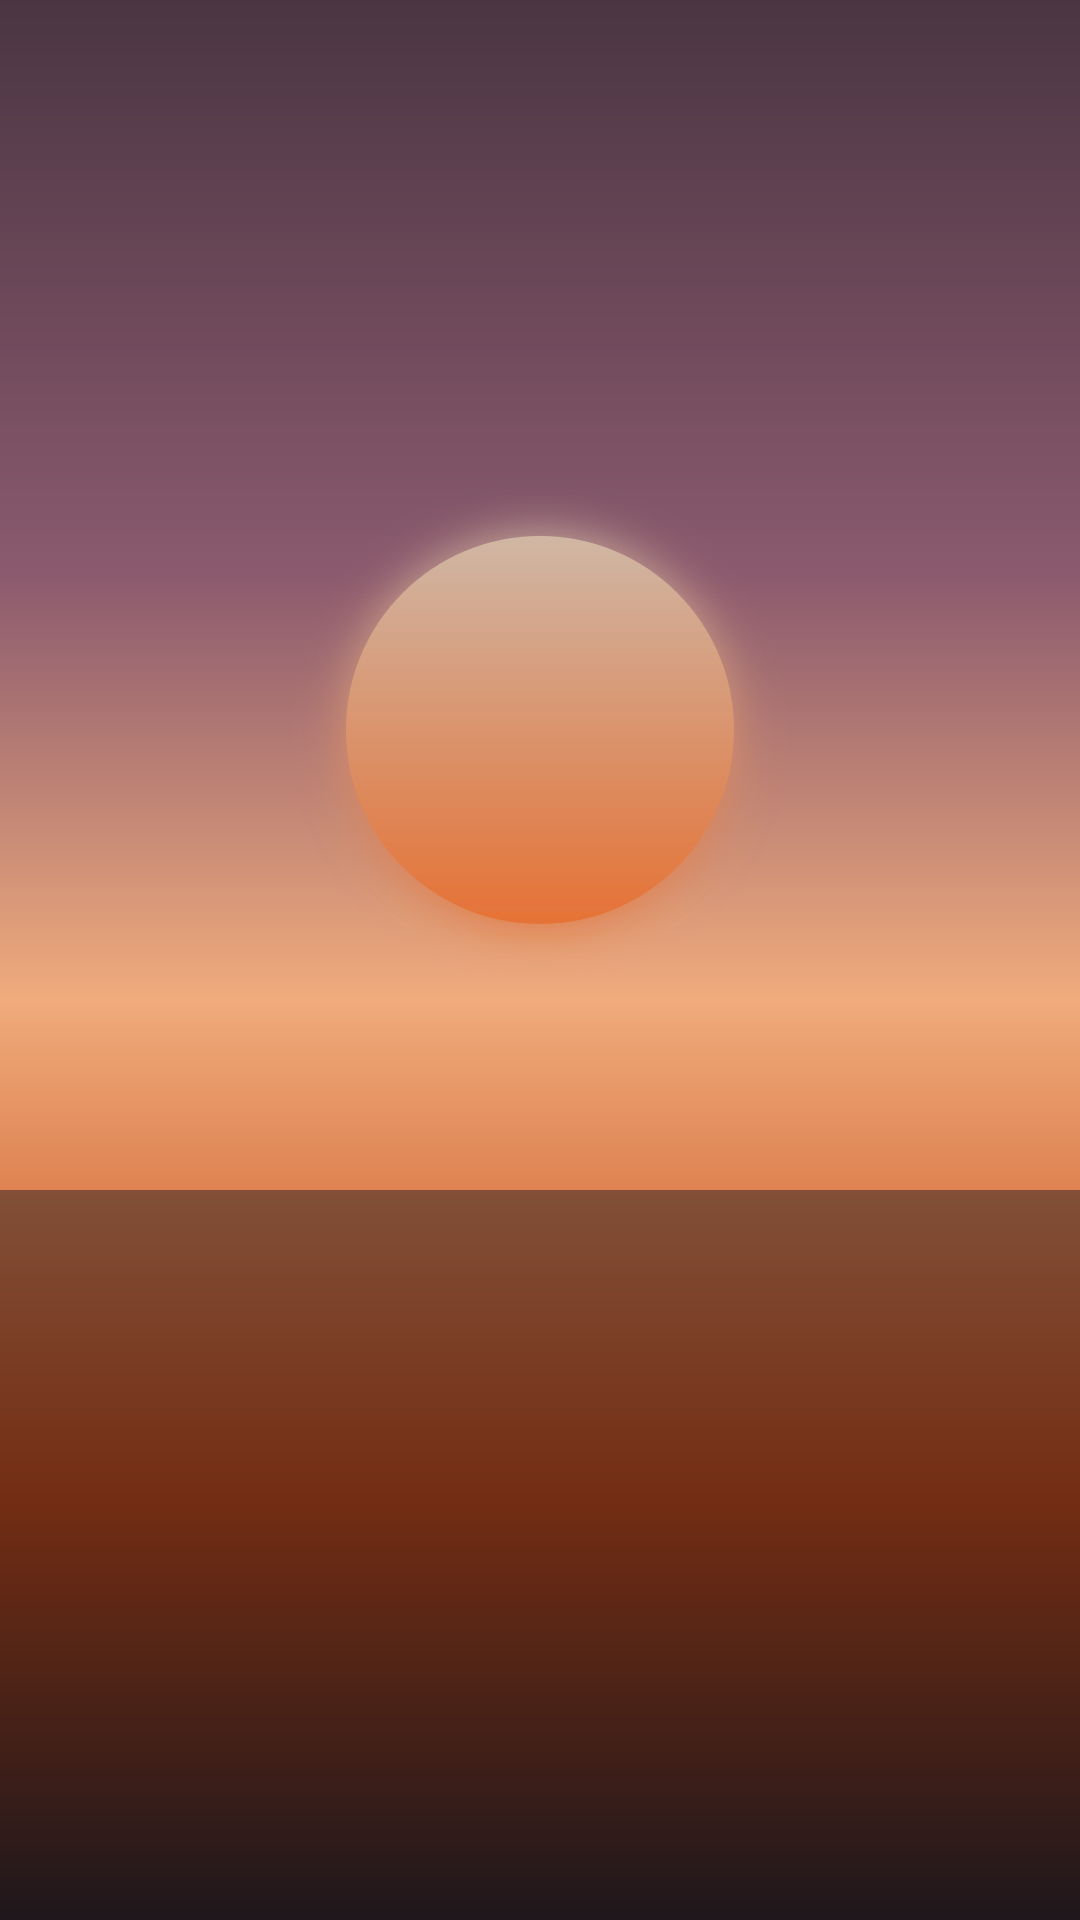
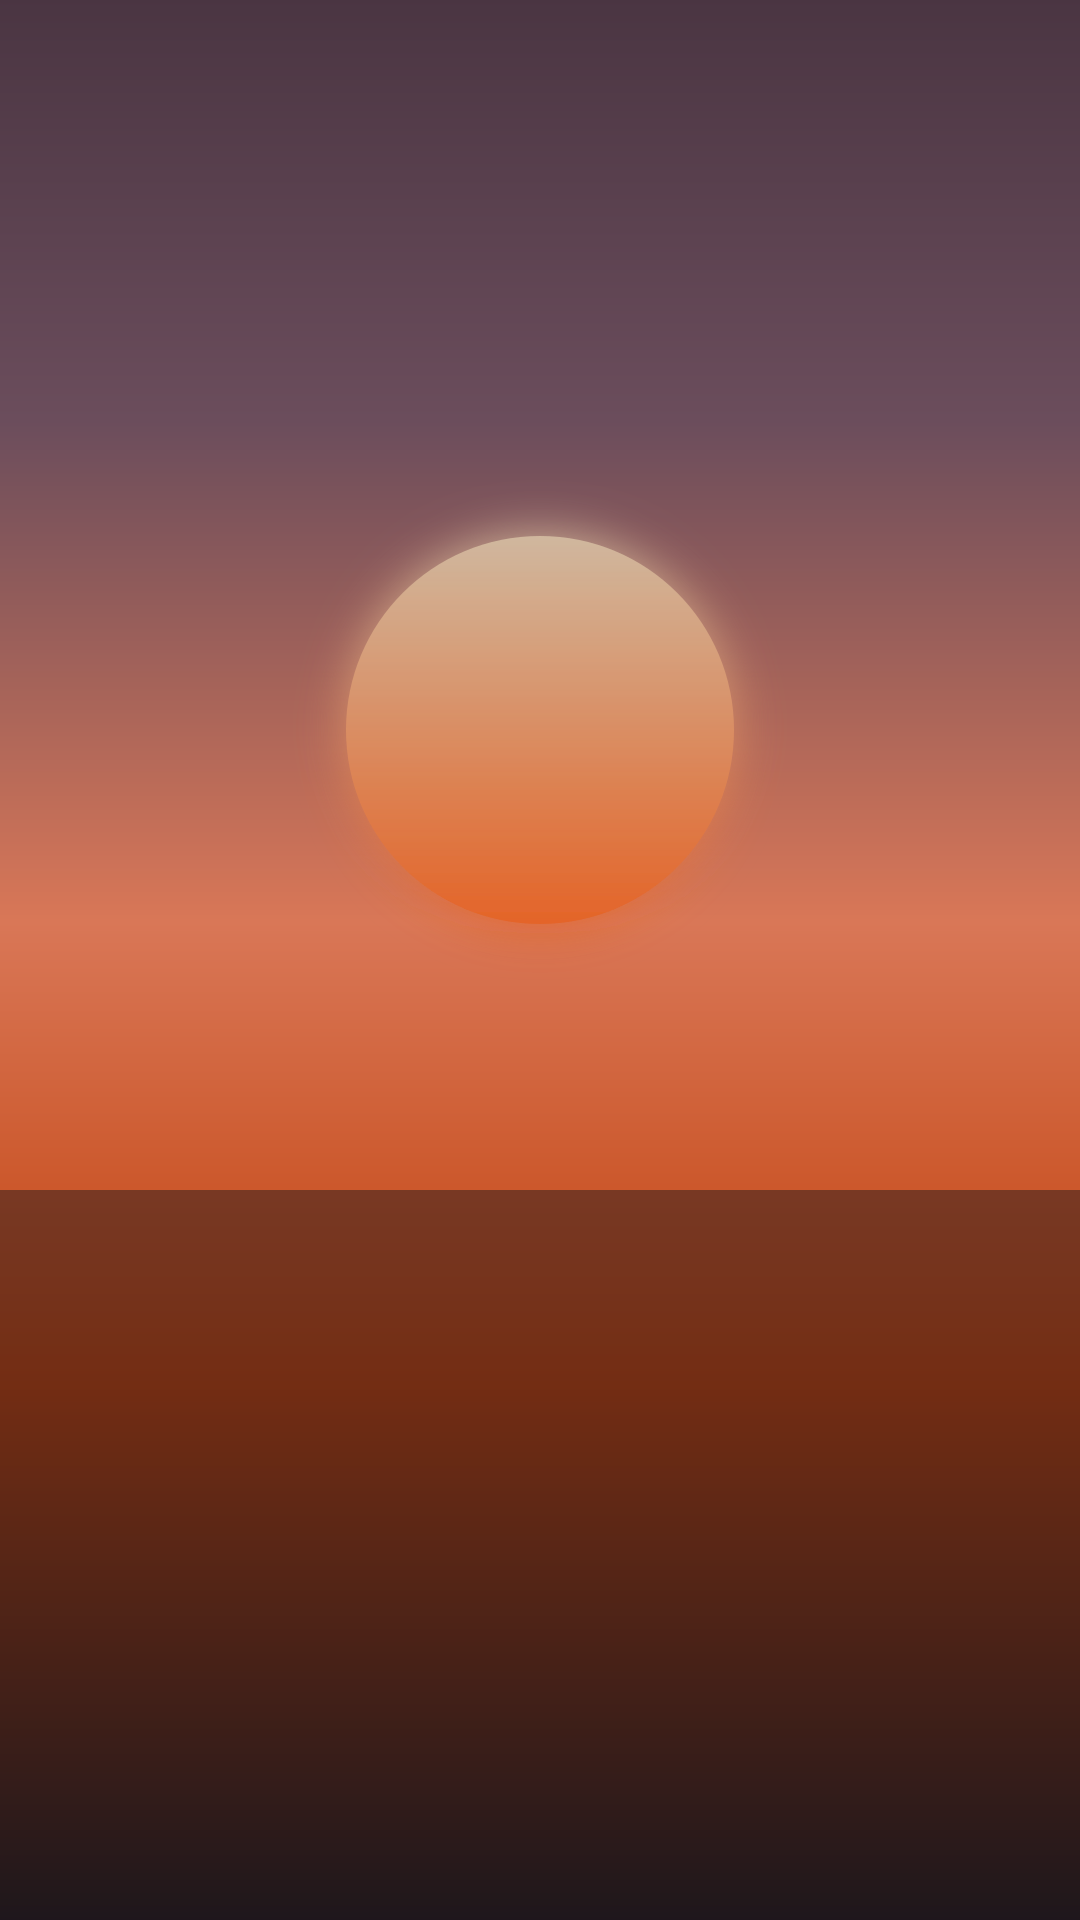
feat(client-ui): intro boot plus courte + tap pour continuer; brand assets ciel unifié avec icône/splash
Made-with: Cursor

Changed region(s): [[0.0, 0.3438, 1.0, 0.625]]

diff --git a/src/components/westcoast/ClientBootOverlay.tsx b/src/components/westcoast/ClientBootOverlay.tsx
@@ -1,10 +1,14 @@
 import { LinearGradient } from 'expo-linear-gradient';
-import { useEffect } from 'react';
-import { Image, Modal, StyleSheet, Text, View } from 'react-native';
+import { useCallback, useEffect, useRef } from 'react';
+import { Image, Modal, Pressable, StyleSheet, Text, View } from 'react-native';
 import { useSafeAreaInsets } from 'react-native-safe-area-context';
 
 import { BrandMark } from '@/components/BrandMark';
 import { CLIENT_BOOT_HERO } from '@/constants/brandingAssets';
+import {
+  CLIENT_BOOT_DURATION_MS,
+  CLIENT_BOOT_SKIP_HINT,
+} from '@/constants/clientExperience';
 import { FONT } from '@/constants/fonts';
 import { colors, spacing } from '@/constants/theme';
 import { WC } from '@/constants/westCoastTheme';
@@ -19,20 +23,37 @@ type Props = {
 /** Écran d’accueil client — fond sunset + scène icônes façon affiche West Coast. */
 export function ClientBootOverlay({ visible, onDone }: Props) {
   const insets = useSafeAreaInsets();
+  const doneRef = useRef(onDone);
+  doneRef.current = onDone;
+
+  const finish = useCallback(() => {
+    doneRef.current();
+  }, []);
 
   useEffect(() => {
     if (!visible) return;
-    const t = setTimeout(onDone, 2800);
+    const t = setTimeout(finish, CLIENT_BOOT_DURATION_MS);
     return () => clearTimeout(t);
-  }, [visible, onDone]);
+  }, [visible, finish]);
 
   if (!visible) return null;
 
   const topPad = insets.top + BOOT_CONTENT_OFFSET;
 
   return (
-    <Modal visible animationType="fade" statusBarTranslucent transparent>
-      <View style={styles.root} accessibilityViewIsModal>
+    <Modal
+      visible
+      animationType="fade"
+      statusBarTranslucent
+      transparent
+      accessibilityViewIsModal
+    >
+      <Pressable
+        style={styles.root}
+        onPress={finish}
+        accessibilityRole="button"
+        accessibilityLabel={`${CLIENT_BOOT_SKIP_HINT}. Ouvre le menu.`}
+      >
         <Image source={CLIENT_BOOT_HERO} style={StyleSheet.absoluteFill} resizeMode="cover" />
         <LinearGradient
           colors={['rgba(60, 40, 72, 0.35)', 'rgba(180, 90, 70, 0.4)', 'rgba(24, 18, 22, 0.82)']}
@@ -60,6 +81,7 @@ export function ClientBootOverlay({ visible, onDone }: Props) {
           <Text style={styles.banner}>LA RECETTE QUI DOMINE LA VILLE</Text>
           <Text style={styles.hours}>LIVRAISON LUN – SAM · 20h – 00h</Text>
           <Text style={styles.snap}>Snap · HUSKOBYNIGHT</Text>
+          <Text style={styles.skipHint}>{CLIENT_BOOT_SKIP_HINT}</Text>
           <LinearGradient
             colors={['transparent', 'rgba(40, 28, 38, 0.25)', 'rgba(24, 18, 24, 0.55)']}
             locations={[0, 0.4, 1]}
@@ -67,7 +89,7 @@ export function ClientBootOverlay({ visible, onDone }: Props) {
             pointerEvents="none"
           />
         </View>
-      </View>
+      </Pressable>
     </Modal>
   );
 }
@@ -150,6 +172,14 @@ const styles = StyleSheet.create({
     color: WC.neonCyan,
     fontSize: 12,
     textAlign: 'center',
+  },
+  skipHint: {
+    fontFamily: FONT.medium,
+    marginTop: spacing.md,
+    color: 'rgba(255, 247, 237, 0.55)',
+    fontSize: 12,
+    textAlign: 'center',
+    letterSpacing: 0.4,
   },
   bootVignette: {
     position: 'absolute',

diff --git a/src/constants/clientExperience.ts b/src/constants/clientExperience.ts
@@ -1,4 +1,11 @@
 /** Textes côté client — ton chaleureux et rassurant. */
+
+/** Intro plein écran au 1er lancement client (`ClientBootOverlay`) — durée max. avant passage auto au menu. */
+export const CLIENT_BOOT_DURATION_MS = 1600;
+
+/** Texte discret — l’utilisateur peut aussi appuyer pour zapper sans attendre. */
+export const CLIENT_BOOT_SKIP_HINT = 'Appuyer pour continuer';
+
 export const CLIENT_PHONE_DISPLAY = '06 29 39 74 30';
 export const CLIENT_PHONE_TEL = '+33629397430';
 
